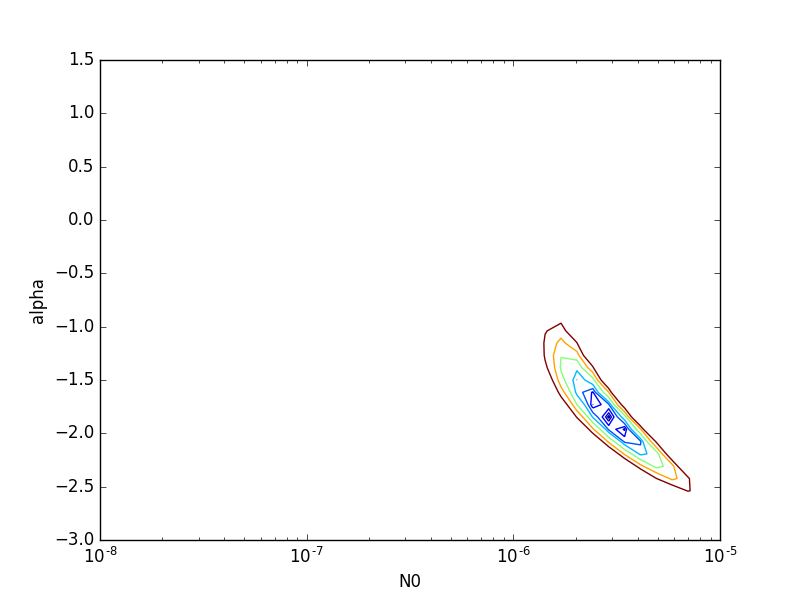
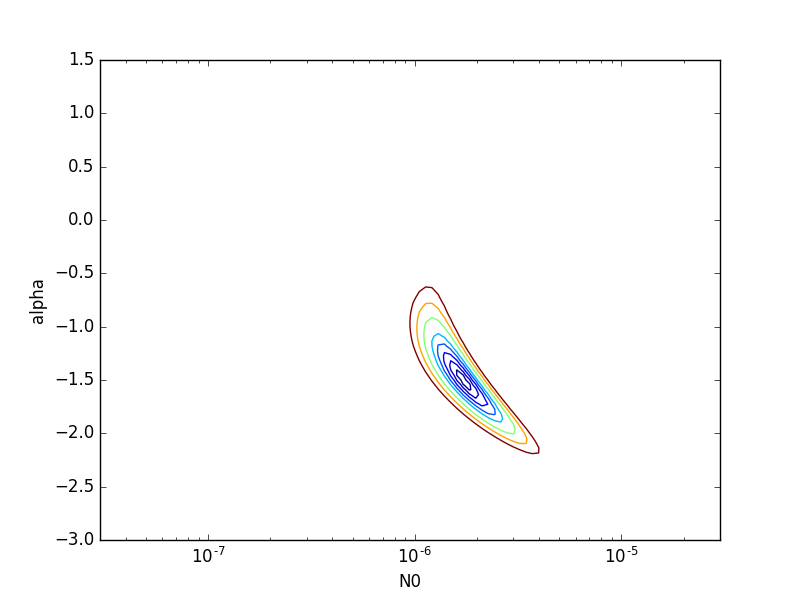
things look good

diff --git a/GCE_jla_log_parab.py b/GCE_jla_log_parab.py
@@ -35,10 +35,11 @@ k = raw[trunc:dataset,5]
 background = raw[trunc:dataset,7]
 exposure = raw[trunc:dataset,6]
 
-Eb = np.logspace(-1,0.5,40)
-alpha = np.linspace(-3,1.5,40)
-beta = np.linspace(0.01,2,40)
-N0_GCE = np.logspace(-8,-5,40)
+#Eb = np.logspace(-1,0.5,40)
+Eb = np.array([0.2])
+alpha = np.linspace(-3,1.5,100)
+beta = np.linspace(0.01,2,100)
+N0_GCE = 3.*np.logspace(-8,-5,100)
 
 binned_spectra = GCE_calcs.calculations.get_spec_log_parab(N0_GCE,alpha,beta,Eb,emax_GCE,emin_GCE)
 
@@ -46,7 +47,7 @@ unbinned_spectra = GCE_calcs.calculations.get_dn_de_log_parab(N0_GCE,alpha,beta,
 
 test_spec_type = GCE_calcs.calculations.get_spec_log_parab_for_minimizing(3.e-6,-1.8,.775,0.1859,emax_GCE,emin_GCE)
 
-print test_spec_type
+#print test_spec_type
 
 #print binned_spectra[0,0,0,0,:]
 #print binned_spectra[0,0,0,:,0]
@@ -86,7 +87,7 @@ log_like_GCE_4d = np.sum(log_like_GCE_5d,axis=4)
 
 max_index = np.unravel_index(log_like_GCE_4d.argmax(),log_like_GCE_4d.shape)
 
-#print 'the index of the max prob is ' + str(max_index)
+print 'the index of the max prob is ' + str(max_index)
 
 print 'the max alpha is ' + str(alpha[max_index[1]])
 print 'the max beta is ' + str(beta[max_index[2]])
@@ -124,6 +125,8 @@ plt.plot(10**bin_center,binned_spectra[max_index[0],max_index[1],max_index[2]+2,
 plt.plot(10**bin_center,binned_spectra[max_index[0],max_index[1],max_index[2]-2,max_index[3],:],label = 'beta = ' +  str(beta[max_index[2]-2]))
 plt.plot(10**bin_center,binned_spectra[max_index[0],max_index[1]+2,max_index[2],max_index[3],:],label = 'alpha = ' +  str(alpha[max_index[1]+2]))
 plt.plot(10**bin_center,binned_spectra[max_index[0],max_index[1]-2,max_index[2],max_index[3],:],label = 'alpha = ' + str(alpha[max_index[1]-2]))
+#plt.plot(10**bin_center,binned_spectra[max_index[0],max_index[1],max_index[2],max_index[3]+2,:],label = 'Eb = ' + str(Eb[max_index[3]+2]))
+#plt.plot(10**bin_center,binned_spectra[max_index[0],max_index[1],max_index[2],max_index[3]-2,:],label = 'Eb = ' + str(Eb[max_index[3]-2]))
 plt.xlabel('Energy [GeV]')
 plt.ylabel('Number Flux [cm^-2 sec^-1]')
 plt.legend(loc='best')
@@ -159,14 +162,14 @@ max_index_alpha_beta = np.unravel_index(log_like_GCE_4d[max_index[0],:,:,max_ind
 
 
 
-plt.contour(alpha,Eb, -log_like_GCE_4d[max_index[0],:,max_index[2],:].T + log_like_GCE_4d.max(),levels)
-plt.xlabel('alpha')
-plt.ylabel('Eb')
-plt.yscale('log')
-plt.savefig('alpha_Eb_slice.png')
-plt.clf()
+#plt.contour(alpha,Eb, -log_like_GCE_4d[max_index[0],:,max_index[2],:].T + log_like_GCE_4d.max(),levels)
+#plt.xlabel('alpha')
+#plt.ylabel('Eb')
+#plt.yscale('log')
+#plt.savefig('alpha_Eb_slice.png')
+#plt.clf()
 
-max_index_alpha_Eb = np.unravel_index(log_like_GCE_4d[max_index[0],:,max_index[2],:].argmax(),log_like_GCE_4d[max_index[0],:,max_index[2],:].shape)
+#max_index_alpha_Eb = np.unravel_index(log_like_GCE_4d[max_index[0],:,max_index[2],:].argmax(),log_like_GCE_4d[max_index[0],:,max_index[2],:].shape)
 
 #print 'the index of the max prob in the alpha_Eb slice is ' + str(max_index_alpha_Eb)
 
@@ -197,27 +200,27 @@ max_index_N0_beta = np.unravel_index(log_like_GCE_4d[:,max_index[1],:,max_index[
 #print 'the index of the max prob in the N0_beta slice is ' + str(max_index_N0_beta)
 
 
-plt.contour(N0_GCE,Eb, -log_like_GCE_4d[:,max_index[1],max_index[2],:].T + log_like_GCE_4d.max(),levels)
-plt.xlabel('N0')
-plt.xscale('log')
-plt.ylabel('Eb')
-plt.yscale('log')
-plt.savefig('N0_Eb_slice.png')
-plt.clf()
+#plt.contour(N0_GCE,Eb, -log_like_GCE_4d[:,max_index[1],max_index[2],:].T + log_like_GCE_4d.max(),levels)
+#plt.xlabel('N0')
+#plt.xscale('log')
+#plt.ylabel('Eb')
+#plt.yscale('log')
+#plt.savefig('N0_Eb_slice.png')
+#plt.clf()
 
-max_index_N0_Eb = np.unravel_index(log_like_GCE_4d[:,max_index[1],max_index[2],:].argmax(),log_like_GCE_4d[:,max_index[1],max_index[2],:].shape)
+#max_index_N0_Eb = np.unravel_index(log_like_GCE_4d[:,max_index[1],max_index[2],:].argmax(),log_like_GCE_4d[:,max_index[1],max_index[2],:].shape)
 
 #print 'the index of the max prob in the N0_Eb slice is ' + str(max_index_N0_Eb)
 
 
-plt.contour(beta,Eb, -log_like_GCE_4d[max_index[0],max_index[1],:,:].T + log_like_GCE_4d.max(),levels)
-plt.xlabel('beta')
-plt.ylabel('Eb')
-plt.yscale('log')
-plt.savefig('beta_Eb_slice.png')
-plt.clf()
+#plt.contour(beta,Eb, -log_like_GCE_4d[max_index[0],max_index[1],:,:].T + log_like_GCE_4d.max(),levels)
+#plt.xlabel('beta')
+#plt.ylabel('Eb')
+#plt.yscale('log')
+#plt.savefig('beta_Eb_slice.png')
+#plt.clf()
 
-max_index_beta_Eb = np.unravel_index(log_like_GCE_4d[max_index[0],max_index[1],:,:].argmax(),log_like_GCE_4d[max_index[0],max_index[1],:,:].shape)
+#max_index_beta_Eb = np.unravel_index(log_like_GCE_4d[max_index[0],max_index[1],:,:].argmax(),log_like_GCE_4d[max_index[0],max_index[1],:,:].shape)
 
 #print 'the index of the max prob in the beta_Eb slice is ' + str(max_index_beta_Eb)
 
@@ -236,11 +239,13 @@ like_GCE_3d = np.trapz(like_GCE_4d, x = np.log(N0_GCE),axis=0) / N0_prior_norm
 
 #print like_GCE_3d
 
-Eb_prior_norm = np.trapz(np.ones(n_eb),x = np.log(Eb))
+#Eb_prior_norm = np.trapz(np.ones(n_eb),x = np.log(Eb))
 
 #print 'the norm of the E_b prior is '+ str(Eb_prior_norm)
 
-like_GCE_2d = np.trapz(like_GCE_3d, x = np.log(Eb),axis = 2) / Eb_prior_norm
+#like_GCE_2d = np.trapz(like_GCE_3d, x = np.log(Eb),axis = 2) / Eb_prior_norm
+
+like_GCE_2d = like_GCE_3d[:,:,0]
 
 zero_test_2d = np.count_nonzero(like_GCE_2d)
 
@@ -262,14 +267,19 @@ print like_GCE
 
 #print like_GCE_2d
 
-delta_log_like_2d = -(np.log(like_GCE_2d) - np.log(like_GCE_2d.max()))
-
-#print delta_log_like_2d.shape
 
 
-posterior_N0 = np.trapz(np.trapz(np.trapz(like_GCE_4d,x = Eb,axis=3),x=beta,axis=2),x=alpha,axis=1)/alpha_prior_norm/beta_prior_norm/Eb_prior_norm
+#posterior_N0 = np.trapz(np.trapz(np.trapz(like_GCE_4d,x = Eb,axis=3),x=beta,axis=2),x=alpha,axis=1)/alpha_prior_norm/beta_prior_norm/Eb_prior_norm
 
-posterior_N0_beta = np.trapz(np.trapz(like_GCE_4d,x = Eb,axis=3),x=alpha,axis=1)
+posterior_N0 = np.trapz(np.trapz(like_GCE_4d[:,:,:,0],x = beta, axis = 2),x = alpha, axis = 1)
+
+posterior_alpha = np.trapz(np.trapz(like_GCE_4d[:,:,:,0],x = np.log(N0_GCE),axis=0),x = beta, axis=1)
+
+posterior_beta = np.trapz(np.trapz(like_GCE_4d[:,:,:,0],x = np.log(N0_GCE),axis=0),x = alpha, axis=0)
+
+posterior_N0_beta = np.trapz(like_GCE_4d[:,:,:,0],x=alpha,axis=1)
+
+posterior_N0_alpha = np.trapz(like_GCE_4d[:,:,:,0],x = beta, axis=2)
 
 plt.plot(N0_GCE,posterior_N0 / posterior_N0.max())
 plt.xscale('log')
@@ -278,8 +288,30 @@ plt.ylabel('scaled probability')
 plt.savefig('N0_posterior.png')
 plt.clf()
 
-levels = [0,1,3,6,10]
-plt.contour(N0_GCE,beta,-np.log(posterior_N0_beta / posterior_N0_beta.max()))
+plt.plot(alpha,posterior_alpha / posterior_alpha.max())
+#plt.xscale('log')
+plt.xlabel('alpha')
+plt.ylabel('scaled probability')
+plt.savefig('alpha_posterior.png')
+plt.clf()
+
+plt.plot(beta,posterior_beta / posterior_beta.max())
+#plt.xscale('log')
+plt.xlabel('beta')
+plt.ylabel('scaled probability')
+plt.savefig('beta_posterior.png')
+plt.clf()
+
+plt.contour(N0_GCE,alpha,-np.log(posterior_N0_alpha.T  / posterior_N0_alpha.max()))
+plt.xscale('log')
+plt.xlabel('normalization')
+plt.ylabel('alpha')
+plt.savefig('N0_alpha_posterior.png')
+plt.clf()
+
+
+#levels = [0,1,3,6,10]
+plt.contour(N0_GCE,beta,-np.log(posterior_N0_beta.T  / posterior_N0_beta.max()))
 plt.xscale('log')
 plt.xlabel('normalization')
 plt.ylabel('beta')
@@ -293,12 +325,12 @@ plt.clf()
 
 #print np.argmax(like_GCE_2d,axis=0)
 
-plt.contour(alpha, beta, delta_log_like_2d ,levels)
+plt.contour(alpha, beta, -np.log(like_GCE_2d.T) + np.log(like_GCE_2d.max()) ,levels)
 #plt.xlim(0,2)
 #plt.ylim(6,8)
 plt.xlabel('alpha')
 plt.ylabel('beta')
-plt.savefig('posterior_test.png')
+plt.savefig('alpha_beta_posterior.png')
 plt.clf()
 
 
@@ -310,22 +342,71 @@ plt.clf()
 #Eb = np.logspace(-2,2,200)
 #alpha = np.linspace(0,10,100)
 #beta = np.linspace(0,10,100)
-N0_dwarfs = np.logspace(-3,4,70)
+data_energy_draco = np.loadtxt('release-01-00-02/like_draco.txt')
+emin_dwarf = np.unique(data_energy_draco[:,0])/1000.
+emax_dwarf = np.unique(data_energy_draco[:,1])/1000. #delete copies and convert from MeV to GeV
+data_draco = np.loadtxt('dwarf_re_data/like_draco_data.txt')
+k_draco = data_draco[:,0]
+back_flux_draco = data_draco[:,1]
+expo_draco = data_draco[:,2]
 
+N0_dwarfs = np.logspace(-9,-5,70)
 
-#levels = [0,1,3,6,12]
-#plt.contour(mass_table,log_sigma,-post_log_pdf[:,2,:],levels)
-#plt.contour(mass_table,np.log10(sigma),-post_nlp_min2,levels)
-#plt.contour(mass_table,np.log10(sigma),-post_test4,levels)
-#plt.savefig('array_test.png')
+binned_spectra_draco = GCE_calcs.calculations.get_spec_log_parab(N0_dwarfs,alpha,beta,Eb,emax_dwarf,emin_dwarf)
+mu_draco = GCE_calcs.calculations.get_mu_log_parab(expo_draco*back_flux_draco,expo_draco,binned_spectra_draco)
+log_like_draco_5d = GCE_calcs.analysis.poisson_log_like(k_draco,mu_draco)
 
+log_like_draco_4d = np.sum(log_like_draco_5d,axis=4)
 
+N0_draco_posterior = np.trapz(np.trapz(log_like_draco_4d[:,:,:,0],x = alpha,axis=1),x = beta,axis=1)
 
-#plt.plot(bin_center,k,label = 'data')
-#plt.plot(bin_center,background,label = 'background')
-#for i in range(5):
-#    plt.plot(bin_center,mu[n_sigma/2,n_J/2,5+10*i,:],label = str(mass_table[5+10*i]))
-#plt.legend(loc='best')
-#plt.savefig('spectra_test.png')
-#plt.clf()
+alpha_draco_posterior = np.trapz(np.trapz(log_like_draco_4d[:,:,:,0],x = np.log(N0_dwarfs),axis=0),x = beta,axis=1)
+
+beta_draco_posterior = np.trapz(np.trapz(log_like_draco_4d[:,:,:,0],x = np.log(N0_dwarfs),axis=0),x = alpha,axis=0)
+
+alpha_beta_posterior = np.trapz(log_like_draco_4d[:,:,:,0],x = np.log(N0_dwarfs),axis=0)
+
+N0_alpha_posterior = np.trapz(log_like_draco_4d[:,:,:,0],x = beta,axis=2)
+
+N0_beta_posterior = np.trapz(log_like_draco_4d[:,:,:,0],x = alpha,axis=1)
+
+plt.plot(N0_dwarfs, N0_draco_posterior/N0_draco_posterior.max())
+plt.xlabel('Normalization')
+plt.xscale('log')
+plt.ylabel('scaled probability')
+plt.savefig('dwarf_N0_posterior.png')
+plt.clf()
+
+plt.plot(alpha, alpha_draco_posterior/alpha_draco_posterior.max())
+plt.xlabel('alpha')
+plt.ylabel('scaled probability')
+plt.savefig('dwarf_alpha_posterior.png')
+plt.clf()
+
+plt.plot(beta, beta_draco_posterior/beta_draco_posterior.max())
+plt.xlabel('beta')
+plt.ylabel('scaled probability')
+plt.savefig('dwarf_beta_posterior.png')
+plt.clf()
+
+plt.contour(N0_dwarfs,alpha,-np.log(N0_alpha_posterior.T  / N0_alpha_posterior.max()))
+plt.xscale('log')
+plt.xlabel('normalization')
+plt.ylabel('alpha')
+plt.savefig('dwarf_N0_alpha_posterior.png')
+plt.clf()
+
+plt.contour(N0_dwarfs,beta,-np.log(N0_beta_posterior.T  / N0_beta_posterior.max()))
+plt.xscale('log')
+plt.xlabel('normalization')
+plt.ylabel('beta')
+plt.savefig('dwarf_N0_beta_posterior.png')
+plt.clf()
+
+plt.contour(alpha,beta,-np.log(alpha_beta_posterior.T  / alpha_beta_posterior.max()))
+plt.xlabel('alpha')
+plt.ylabel('beta')
+plt.savefig('dwarf_alpha_beta_posterior.png')
+plt.clf()
+
 
